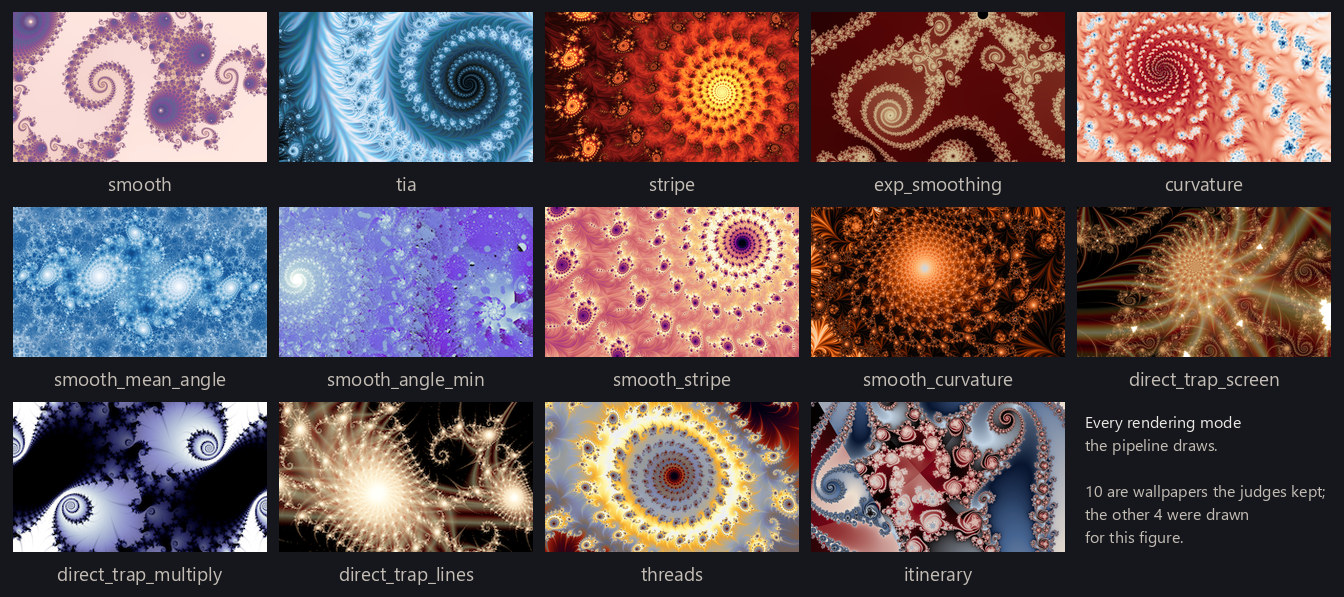
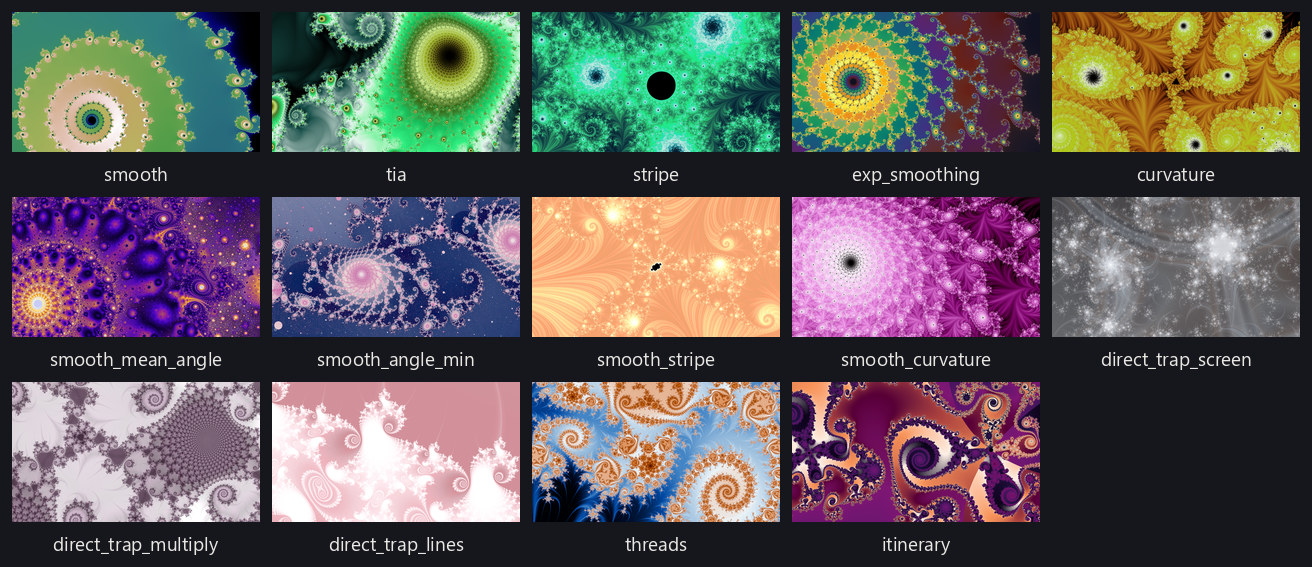
Draw the modes roster from fourteen random gallery seats
The Rendering modes roster figure had ten released wallpapers and four
panels drawn for it, and a legend in its empty fifteenth cell saying so —
a paragraph the caption already carried a few lines below the picture.
The legend is gone and every panel is now a seat of the recorded
tentative gallery, one per mode, each a uniform random draw over that
mode's seats rather than a choice: builder.picks:modes_gallery, with the
IDs on the row and scratch/modes/repick_gallery.py, seed 20260902, as
the draw. Seats standing on a location another figure stands on were
rejected, so the row's reuse_reason comes off with the two repetitions
it excused.

Two things the re-pick found.

A seat's mode is the ledger recipe's, never the seat row's: the two
disagree on 18 of that gallery's 746 seats, all of them sm_comp_pilot
candidates seated as smooth and recipe'd as itinerary. The first draw
grouped by the seat row and put an itinerary picture under a smooth
label.

And links.py read the first family word anywhere in a line, so
`partition julia:mandelbrot - family julia` was read as a Mandelbrot —
which takes no c, so the constants that make it that Julia set were
dropped and the link opened a different object from the picture it
sits on. A line that names its family in so many words now wins over
the word scan. Nothing else's link moves.

Claude-Session: https://claude.ai/code/session_019TxKYhmycKpvpxQgrg1z5b

diff --git a/explorer/palettes.js b/explorer/palettes.js
@@ -15,7 +15,7 @@
 
 export const PROVENANCE = {
   "baked": "2026-08-25",
-  "count": 116,
+  "count": 117,
   "default_because": "the article's mandelbrot smooth figures are colored through twilight_shifted",
   "offered": 77,
   "source": "data/palettes/*.json",
@@ -600,6 +600,12 @@ export const PALETTES = new Map([
     offered: false,
     positions: [0.0, 0.00390625, 0.0078125, 0.01171875, 0.015625, 0.01953125, 0.0234375, 0.02734375, 0.03125, 0.03515625, 0.0390625, 0.04296875, 0.046875, 0.05078125, 0.0546875, 0.05859375, 0.0625, 0.06640625, 0.0703125, 0.07421875, 0.078125, 0.08203125, 0.0859375, 0.08984375, 0.09375, 0.09765625, 0.1015625, 0.10546875, 0.109375, 0.11328125, 0.1171875, 0.12109375, 0.125, 0.12890625, 0.1328125, 0.13671875, 0.140625, 0.14453125, 0.1484375, 0.15234375, 0.15625, 0.16015625, 0.1640625, 0.16796875, 0.171875, 0.17578125, 0.1796875, 0.18359375, 0.1875, 0.19140625, 0.1953125, 0.19921875, 0.203125, 0.20703125, 0.2109375, 0.21484375, 0.21875, 0.22265625, 0.2265625, 0.23046875, 0.234375, 0.23828125, 0.2421875, 0.24609375, 0.25, 0.25390625, 0.2578125, 0.26171875, 0.265625, 0.26953125, 0.2734375, 0.27734375, 0.28125, 0.28515625, 0.2890625, 0.29296875, 0.296875, 0.30078125, 0.3046875, 0.30859375, 0.3125, 0.31640625, 0.3203125, 0.32421875, 0.328125, 0.33203125, 0.3359375, 0.33984375, 0.34375, 0.34765625, 0.3515625, 0.35546875, 0.359375, 0.36328125, 0.3671875, 0.37109375, 0.375, 0.37890625, 0.3828125, 0.38671875, 0.390625, 0.39453125, 0.3984375, 0.40234375, 0.40625, 0.41015625, 0.4140625, 0.41796875, 0.421875, 0.42578125, 0.4296875, 0.43359375, 0.4375, 0.44140625, 0.4453125, 0.44921875, 0.453125, 0.45703125, 0.4609375, 0.46484375, 0.46875, 0.47265625, 0.4765625, 0.48046875, 0.484375, 0.48828125, 0.4921875, 0.49609375, 0.5, 0.50390625, 0.5078125, 0.51171875, 0.515625, 0.51953125, 0.5234375, 0.52734375, 0.53125, 0.53515625, 0.5390625, 0.54296875, 0.546875, 0.55078125, 0.5546875, 0.55859375, 0.5625, 0.56640625, 0.5703125, 0.57421875, 0.578125, 0.58203125, 0.5859375, 0.58984375, 0.59375, 0.59765625, 0.6015625, 0.60546875, 0.609375, 0.61328125, 0.6171875, 0.62109375, 0.625, 0.62890625, 0.6328125, 0.63671875, 0.640625, 0.64453125, 0.6484375, 0.65234375, 0.65625, 0.66015625, 0.6640625, 0.66796875, 0.671875, 0.67578125, 0.6796875, 0.68359375, 0.6875, 0.69140625, 0.6953125, 0.69921875, 0.703125, 0.70703125, 0.7109375, 0.71484375, 0.71875, 0.72265625, 0.7265625, 0.73046875, 0.734375, 0.73828125, 0.7421875, 0.74609375, 0.75, 0.75390625, 0.7578125, 0.76171875, 0.765625, 0.76953125, 0.7734375, 0.77734375, 0.78125, 0.78515625, 0.7890625, 0.79296875, 0.796875, 0.80078125, 0.8046875, 0.80859375, 0.8125, 0.81640625, 0.8203125, 0.82421875, 0.828125, 0.83203125, 0.8359375, 0.83984375, 0.84375, 0.84765625, 0.8515625, 0.85546875, 0.859375, 0.86328125, 0.8671875, 0.87109375, 0.875, 0.87890625, 0.8828125, 0.88671875, 0.890625, 0.89453125, 0.8984375, 0.90234375, 0.90625, 0.91015625, 0.9140625, 0.91796875, 0.921875, 0.92578125, 0.9296875, 0.93359375, 0.9375, 0.94140625, 0.9453125, 0.94921875, 0.953125, 0.95703125, 0.9609375, 0.96484375, 0.96875, 0.97265625, 0.9765625, 0.98046875, 0.984375, 0.98828125, 0.9921875, 0.99609375, 1.0],
     colors: [206, 207, 204, 210, 207, 200, 213, 207, 195, 217, 206, 189, 221, 204, 184, 224, 203, 178, 227, 201, 173, 231, 200, 167, 234, 198, 161, 237, 196, 155, 240, 195, 149, 243, 193, 143, 245, 191, 137, 248, 189, 130, 250, 187, 123, 251, 184, 116, 252, 182, 109, 253, 179, 102, 254, 176, 95, 254, 173, 88, 254, 170, 82, 255, 166, 76, 255, 163, 71, 254, 159, 68, 254, 156, 65, 254, 152, 62, 254, 149, 60, 254, 145, 59, 254, 142, 57, 253, 138, 54, 252, 135, 53, 250, 132, 52, 248, 129, 53, 245, 127, 54, 242, 125, 56, 239, 123, 57, 236, 121, 55, 233, 118, 52, 232, 114, 47, 231, 111, 40, 230, 107, 33, 229, 104, 26, 227, 100, 19, 225, 97, 12, 223, 95, 8, 220, 92, 5, 217, 90, 4, 214, 88, 3, 211, 85, 3, 208, 83, 2, 205, 81, 2, 202, 79, 2, 199, 77, 2, 196, 75, 2, 192, 73, 1, 189, 71, 1, 186, 70, 1, 182, 69, 1, 178, 67, 1, 175, 66, 1, 171, 65, 1, 168, 64, 1, 164, 63, 1, 161, 61, 1, 158, 59, 1, 155, 57, 1, 152, 55, 1, 149, 53, 1, 146, 51, 1, 143, 50, 1, 140, 48, 1, 137, 47, 1, 133, 46, 1, 130, 45, 1, 127, 44, 1, 123, 42, 1, 120, 41, 1, 117, 40, 1, 114, 38, 1, 111, 36, 1, 108, 34, 1, 106, 33, 1, 103, 31, 1, 100, 29, 1, 97, 27, 1, 94, 26, 1, 91, 24, 1, 88, 23, 1, 85, 22, 1, 82, 21, 1, 79, 20, 1, 76, 19, 1, 73, 18, 1, 70, 17, 1, 67, 16, 1, 64, 16, 1, 61, 15, 1, 58, 14, 1, 55, 14, 1, 52, 14, 1, 48, 13, 1, 45, 14, 2, 42, 14, 3, 39, 15, 4, 35, 16, 5, 32, 16, 7, 29, 17, 9, 26, 17, 11, 22, 16, 12, 19, 15, 12, 17, 14, 11, 15, 12, 10, 13, 11, 9, 11, 9, 7, 10, 8, 6, 9, 6, 4, 9, 5, 3, 8, 4, 2, 8, 3, 1, 8, 2, 0, 7, 1, 0, 6, 1, 0, 5, 0, 0, 4, 0, 0, 3, 0, 0, 2, 0, 0, 1, 0, 0, 1, 0, 0, 0, 0, 0, 1, 0, 0, 1, 0, 0, 2, 0, 0, 3, 0, 0, 4, 0, 0, 5, 0, 0, 6, 1, 0, 7, 1, 0, 8, 2, 0, 8, 3, 1, 8, 4, 2, 9, 5, 3, 9, 6, 4, 10, 8, 6, 11, 9, 7, 13, 11, 9, 15, 12, 10, 17, 14, 11, 19, 15, 12, 22, 16, 12, 26, 17, 11, 29, 17, 9, 32, 16, 7, 35, 16, 5, 39, 15, 4, 42, 14, 3, 45, 14, 2, 48, 13, 1, 52, 14, 1, 55, 14, 1, 58, 14, 1, 61, 15, 1, 64, 16, 1, 67, 16, 1, 70, 17, 1, 73, 18, 1, 76, 19, 1, 79, 20, 1, 82, 21, 1, 85, 22, 1, 88, 23, 1, 91, 24, 1, 94, 26, 1, 97, 27, 1, 100, 29, 1, 103, 31, 1, 106, 33, 1, 108, 34, 1, 111, 36, 1, 114, 38, 1, 117, 40, 1, 120, 41, 1, 123, 42, 1, 127, 44, 1, 130, 45, 1, 133, 46, 1, 137, 47, 1, 140, 48, 1, 143, 50, 1, 146, 51, 1, 149, 53, 1, 152, 55, 1, 155, 57, 1, 158, 59, 1, 161, 61, 1, 164, 63, 1, 168, 64, 1, 171, 65, 1, 175, 66, 1, 178, 67, 1, 182, 69, 1, 186, 70, 1, 189, 71, 1, 192, 73, 1, 196, 75, 2, 199, 77, 2, 202, 79, 2, 205, 81, 2, 208, 83, 2, 211, 85, 3, 214, 88, 3, 217, 90, 4, 220, 92, 5, 223, 95, 8, 225, 97, 12, 227, 100, 19, 229, 104, 26, 230, 107, 33, 231, 111, 40, 232, 114, 47, 233, 118, 52, 236, 121, 55, 239, 123, 57, 242, 125, 56, 245, 127, 54, 248, 129, 53, 250, 132, 52, 252, 135, 53, 253, 138, 54, 254, 142, 57, 254, 145, 59, 254, 149, 60, 254, 152, 62, 254, 156, 65, 254, 159, 68, 255, 163, 71, 255, 166, 76, 254, 170, 82, 254, 173, 88, 254, 176, 95, 253, 179, 102, 252, 182, 109, 251, 184, 116, 250, 187, 123, 248, 189, 130, 245, 191, 137, 243, 193, 143, 240, 195, 149, 237, 196, 155, 234, 198, 161, 231, 200, 167, 227, 201, 173, 224, 203, 178, 221, 204, 184, 217, 206, 189, 213, 207, 195, 210, 207, 200, 206, 207, 204],
+  }],
+  ["gist_earth", {
+    cyclic: false,
+    offered: false,
+    positions: [0.0, 0.03125, 0.0625, 0.09375, 0.125, 0.15625, 0.1875, 0.21875, 0.25, 0.28125, 0.3125, 0.34375, 0.375, 0.40625, 0.4375, 0.46875, 0.5, 0.53125, 0.5625, 0.59375, 0.625, 0.65625, 0.6875, 0.71875, 0.75, 0.78125, 0.8125, 0.84375, 0.875, 0.90625, 0.9375, 0.96875, 1.0],
+    colors: [0, 0, 0, 5, 2, 116, 11, 21, 117, 16, 39, 119, 21, 57, 120, 27, 73, 122, 32, 89, 123, 37, 103, 125, 43, 115, 126, 48, 128, 128, 52, 133, 118, 56, 137, 108, 59, 142, 98, 63, 146, 88, 67, 151, 79, 76, 156, 71, 94, 160, 75, 111, 164, 80, 127, 168, 83, 140, 171, 86, 153, 175, 88, 167, 178, 91, 180, 182, 93, 185, 178, 96, 189, 171, 98, 192, 164, 101, 200, 167, 121, 209, 174, 140, 218, 183, 160, 227, 195, 182, 236, 211, 206, 245, 231, 230, 253, 251, 251],
   }],
   ["gist_heat", {
     cyclic: false,

diff --git a/article/rendering-modes.html b/article/rendering-modes.html
@@ -275,8 +275,8 @@
     a particular location work; that is the reason to keep drawing it.</p>
 
       <figure class="figure" data-figure="modes-gallery">
-        <a class="figure-open" href="../explorer/index.html?v=2&amp;f=julia&amp;cx=-0.7752816563344589&amp;cy=0.11060370315867907&amp;x=1.41031913164428&amp;y=-0.0677854357876097&amp;w=0.18319667527863442&amp;p=chaidai" title="open in fractal explorer" aria-label="open in fractal explorer"><img src="../assets/images/figures/modes-gallery.jpg" width="1344" height="597" alt="One labeled thumbnail for each rendering mode the pipeline draws from, in the engine's catalog order."><span class="figure-open-mark" aria-hidden="true">↗</span></a>
-        <figcaption>Every rendering mode the pipeline draws from, one example each, in the engine's own catalog order. Ten are wallpapers the judges kept; the other four were drawn for this figure.</figcaption>
+        <a class="figure-open" href="../explorer/index.html?v=2&amp;f=julia&amp;cx=-0.7548374821242281&amp;cy=-0.07387098369508416&amp;x=0.6986883196777741&amp;y=0.18609427076235419&amp;w=0.0006158665120853605&amp;p=gist_earth&amp;mirror=1" title="open in fractal explorer" aria-label="open in fractal explorer"><img src="../assets/images/figures/modes-gallery.jpg" width="1312" height="567" alt="One labeled thumbnail for each rendering mode the pipeline draws from, in the engine's catalog order."><span class="figure-open-mark" aria-hidden="true">↗</span></a>
+        <figcaption>Every rendering mode the pipeline draws from, one example each, in the engine's own catalog order. All fourteen are wallpapers the judges kept, taken at random from the gallery rather than chosen for this figure.</figcaption>
       </figure>
 
     <h2 id="beyond-this-catalog">Beyond this catalog</h2>

diff --git a/builder/picks.py b/builder/picks.py
@@ -578,6 +578,57 @@ HOOK_ROWS = 2
 #: How many lines a tile label under the hook carries: the family, then the rendering.
 HOOK_LABEL_LINES = 2
 
+#: The Rendering modes roster, in the engine catalog's own order — the order the page's
+#: own scoreboard reads in, and the order the sheet draws. Spelled here rather than read
+#: out of the catalog next door for the reason the explorer's mode record is spelled out:
+#: a mode promoted to production over there is a panel somebody has to pick, never one a
+#: redraw quietly adds to a figure a reader has already been shown.
+MODES_ROSTER = (
+    "smooth",
+    "tia",
+    "stripe",
+    "exp_smoothing",
+    "curvature",
+    "smooth_mean_angle",
+    "smooth_angle_min",
+    "smooth_stripe",
+    "smooth_curvature",
+    "direct_trap_screen",
+    "direct_trap_multiply",
+    "direct_trap_lines",
+    "threads",
+    "itinerary",
+)
+
+#: The roster's shape: fourteen panels in fifteen cells, five across. The cell left over
+#: is well and nothing else. It used to carry a legend that said what the caption says a
+#: few lines below the picture, which is the same paragraph twice — the caption is the
+#: caption *(Matt, 2026-09-02, taking the last of these off the page)*.
+MODES_COLUMNS = 5
+MODES_ROWS = 3
+
+#: How a panel of the roster is labelled: the engine's own name for the mode, which is
+#: the name this page teaches and the name its scoreboard lists. Not `MODE_WORDS` — that
+#: is for the front page, which meets a rendering before the vocabulary exists.
+MODES_LABEL_LINES = 1
+
+#: How the fourteen seats were arrived at, which is the one thing the resolution cannot
+#: say for itself. Written down because a random draw is only a record if the draw is.
+MODES_DRAW = (
+    "Which seat stands for a mode is a uniform random draw over that mode's seats of the "
+    "stamp — scratch/modes/repick_gallery.py, seed 20260902 — rejecting any seat standing "
+    "on a location another figure already stands on, and any whose run recorded that the "
+    "autolevel operator acted without recording the curve it acted with. Nothing here was "
+    "chosen for how it looks: the figure's claim is that the roster draws wallpapers, and "
+    "a hand-picked panel per mode would be a claim about the picker instead.",
+    "A seat's mode is read off the ledger recipe and never off the seat row. The two "
+    "disagree on 18 of that gallery's 746 seats — every one a candidate of the "
+    "sm_comp_pilot depth run, seated as smooth and recipe'd as itinerary — and the recipe "
+    "is what the engine is handed, so grouping by the seat row would label a panel with a "
+    "mode its picture was not drawn in. That gap is the wallpaper project's record to "
+    "close and is only worked around here.",
+)
+
 
 def picks_of(identifier: str) -> list[str]:
     """The IDs a figure's own registry row names, which is where the picks live."""
@@ -625,6 +676,40 @@ def gallery_hook() -> Drawn:
         )
     destination = sheets.save(sheet, sheet_path(identifier))
     return Drawn(destination, provenance(resolved, size))
+
+
+def modes_gallery() -> Drawn:
+    """The Rendering modes roster: one gallery seat per mode, in the catalog's own order.
+
+    Which seat is not this module's choice any more than the hook's six are — the IDs are
+    on the registry row. What is fixed here is the roster: exactly one pick per mode of
+    `MODES_ROSTER` and in its order, so a row that has drifted out of the order the page's
+    scoreboard reads in is a refusal rather than a sheet whose labels run out of step with
+    the table above it.
+    """
+    identifier = "modes-gallery"
+    wanted = picks_of(identifier)
+    resolved = resolve(wanted)
+    drawn = [pick.mode for pick in resolved]
+    if drawn != list(MODES_ROSTER):
+        raise PickError(
+            f"{identifier} is one seat per mode in the engine catalog's order — "
+            f"{', '.join(MODES_ROSTER)} — and its row names {', '.join(drawn) or 'none'}"
+        )
+    catalog = renders.mode_catalog()
+    size = panels(MODES_COLUMNS)
+    caption = sheets.caption_band(size[1], SHEET_WIDTH, MODES_LABEL_LINES)
+    sheet, draw = sheets.canvas(*sheets.grid_size(size, MODES_COLUMNS, MODES_ROWS, caption))
+    for index, pick in enumerate(resolved):
+        picture = panel(pick, f"modes-{index + 1}-{pick.alias}", catalog)
+        origin = sheets.panel_origin(index, size, MODES_COLUMNS, caption)
+        sheet.paste(sheets.fitted(picture, size), origin)
+        sheets.tile_label(draw, origin, size, pick.mode, sheet.width)
+    destination = sheets.save(sheet, sheet_path(identifier))
+    return Drawn(
+        destination,
+        provenance(resolved, size, columns=MODES_COLUMNS, chosen=MODES_DRAW),
+    )
 
 
 # ---------------------------------------------------------------------- the provenance
@@ -765,8 +850,19 @@ def autolevel_line(picks: list[Pick], levellings: dict[str, Levelling] | None = 
     )
 
 
-def provenance(picks: list[Pick], size: tuple[int, int]) -> list[str]:
-    """The registry lines for a sheet of picks: the composition, then one line per panel."""
+def provenance(
+    picks: list[Pick],
+    size: tuple[int, int],
+    *,
+    columns: int = HOOK_COLUMNS,
+    chosen: tuple[str, ...] = (),
+) -> list[str]:
+    """The registry lines for a sheet of picks: the composition, then one line per panel.
+
+    `chosen` is where a figure says how its seats were arrived at, which is the one thing
+    the resolution above cannot say for itself — the hook's six are Matt's, and the modes
+    roster's fourteen are a seeded random draw.
+    """
     stamped = sorted({pick.stamp for pick in picks})
     lines = [
         f"builder.picks — every panel is a seat of a recorded tentative gallery, named on "
@@ -779,8 +875,9 @@ def provenance(picks: list[Pick], size: tuple[int, int]) -> list[str]:
         f"coloring is this figure's choice: mode, mode settings, curve, map, the whole "
         f"palette pass and the cap all come off the ledger's recipe. Stamp"
         f"{'s' if len(stamped) > 1 else ''} {', '.join(stamped)}; panels in reading order, "
-        f"{HOOK_COLUMNS} across.",
+        f"{columns} across.",
         autolevel_line(picks),
+        *chosen,
     ]
     lines += [frame_line(pick, representative=index == 0) for index, pick in enumerate(picks)]
     return lines
@@ -790,6 +887,7 @@ def provenance(picks: list[Pick], size: tuple[int, int]) -> list[str]:
 
 MAKERS = {
     "overview-gallery-hook": gallery_hook,
+    "modes-gallery": modes_gallery,
 }
 
 

diff --git a/builder/links.py b/builder/links.py
@@ -341,6 +341,20 @@ FAMILY_WORDS = (
     ("phoenix", "phoenix"),
 )
 
+#: A line that names its family **in so many words** says so here, and this wins over the
+#: word scan above.
+#:
+#: The word scan takes the first family word anywhere in the line, which is a guess that a
+#: seat's own record breaks: `builder.picks` writes the curation partition into every panel
+#: line, and a Julia set of the Mandelbrot parameter plane is partitioned `julia:mandelbrot`
+#: — so a line reading `partition julia:mandelbrot - family julia, degree 2, c = ...` was
+#: read as a Mandelbrot, and a Mandelbrot takes no `c`, so the constants that make it that
+#: Julia set were dropped from the link. The picture the reader clicked and the picture the
+#: explorer opened were different objects, which is the one failure this registry exists to
+#: refuse. Held to the family names rather than to `[a-z_]+`, because `the field family` is
+#: a phrase this site's provenance also writes.
+FAMILY_NAMED = re.compile(r"\bfamily (fractional_multibrot|multibrot|mandelbrot|julia|phoenix)\b")
+
 #: The shade keys a prose provenance line spells out, and how each is read.
 PROSE_SHADE = {
     "gamma": re.compile(rf"\bgamma ({NUMBER})"),
@@ -362,11 +376,15 @@ def scan(line: str, roster: list[str], modes: set[str]) -> dict:
     colormap = named_colormap(line, roster)
     if colormap is not None:
         found["colormap"] = colormap
-    lowered = line.lower()
-    for word, family in FAMILY_WORDS:
-        if word in lowered:
-            found["family"] = family
-            break
+    named = FAMILY_NAMED.search(line.lower())
+    if named:
+        found["family"] = named.group(1)
+    else:
+        lowered = line.lower()
+        for word, family in FAMILY_WORDS:
+            if word in lowered:
+                found["family"] = family
+                break
     # A mode is a name the catalog holds. `Only the mode changes.` is a sentence about a
     # sheet and not a mode called `changes`, and a rule that read whatever followed the
     # word would put a mode nobody has into a link.
